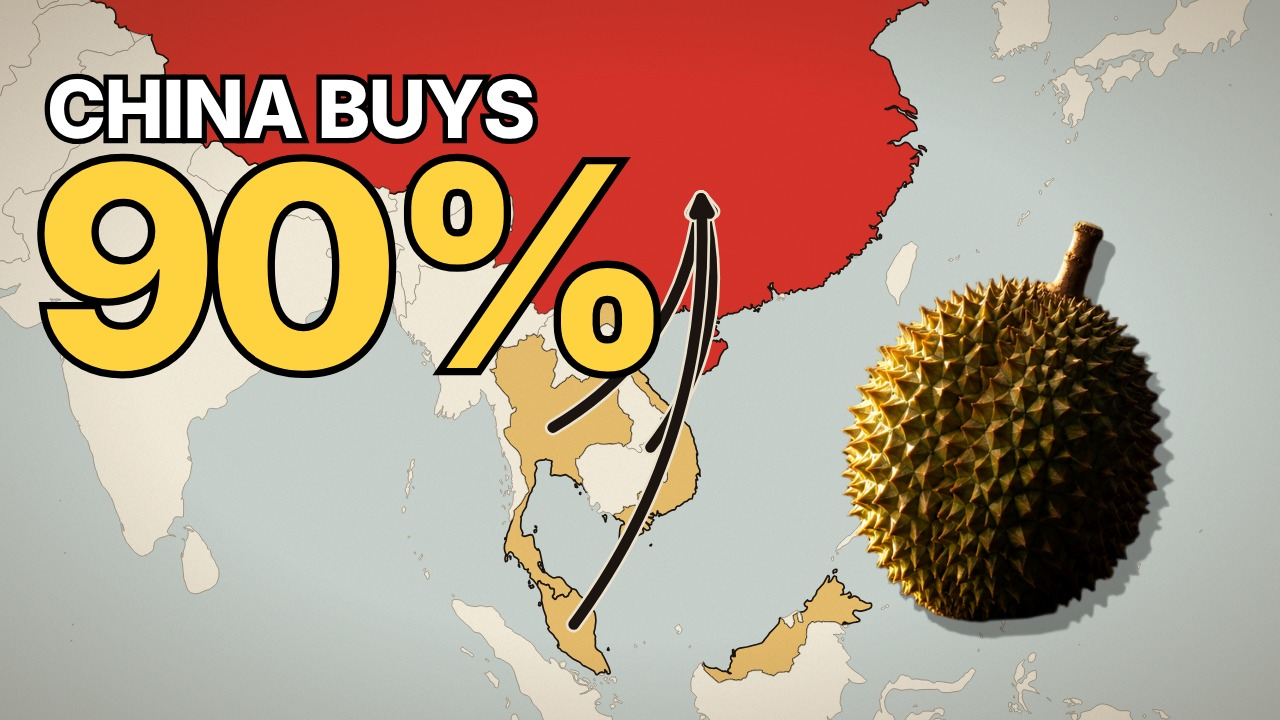
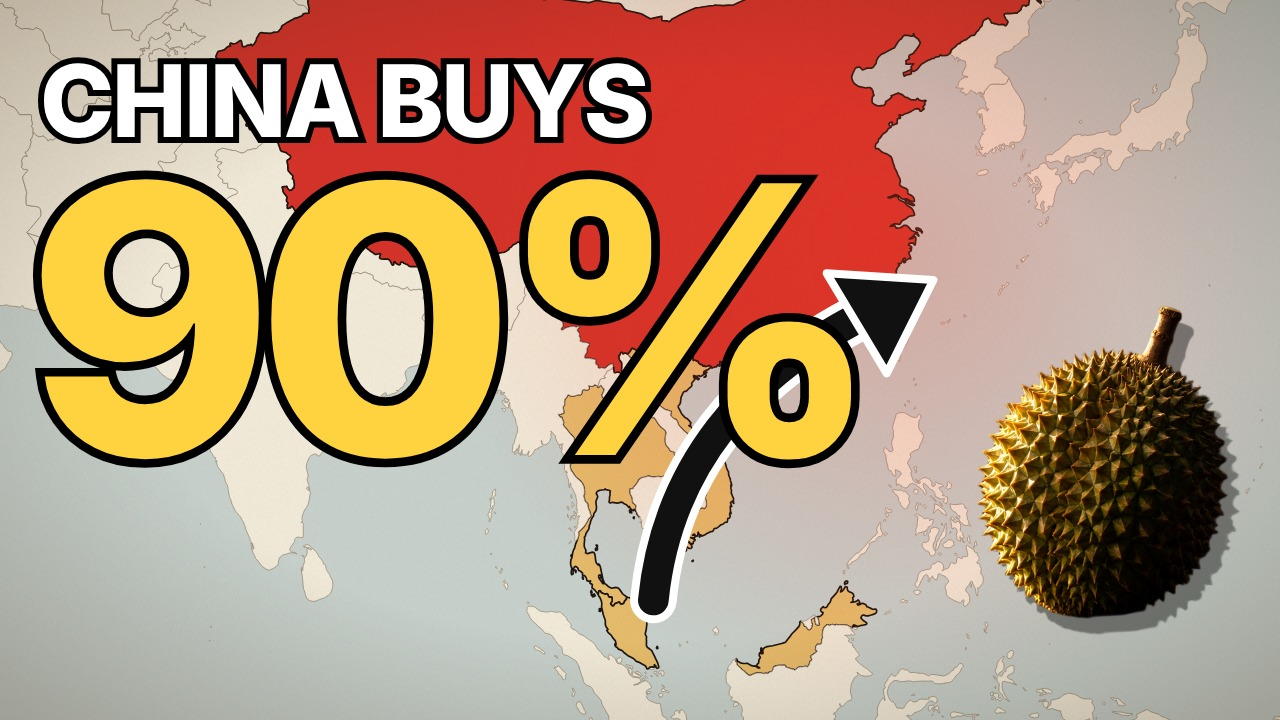
Thumbnails v2: simpler A, B with a human reaction
Claude-Session: https://claude.ai/code/session_01VhrmDmArrbH4FQoZgNijub

diff --git a/video-production/durian/src/Thumb.tsx b/video-production/durian/src/Thumb.tsx
@@ -6,32 +6,35 @@ import {C, MARKER, SANS} from './theme';
 // YouTube thumbnails (rendered as stills at 1920x1080, exported at 1280x720).
 const stroke = (w: number, col = '#000') => ({WebkitTextStroke: `${w}px ${col}`, paintOrder: 'stroke fill' as const});
 const MAP: MapSpec = {
-  from: {c: [106, 19], z: 1500},
-  highlight: {China: 'red', Thailand: 'gold', Vietnam: 'gold', Malaysia: 'gold'},
-  arrows: [
-    {from: [101.0, 15.3], to: [109.5, 27.5], delay: -200, width: 16},
-    {from: [106.6, 14.2], to: [109.5, 27.5], delay: -200, width: 16},
-    {from: [102.2, 4.2], to: [109.5, 27.5], delay: -200, bend: 0.18, width: 16},
-  ],
+  from: {c: [103, 22], z: 1250},
+  highlight: {China: 'red', Vietnam: 'gold', Thailand: 'gold', Malaysia: 'gold'},
 };
 
+// A: one idea only. China glowing red, one fat arrow from Southeast Asia, a huge 90%.
 const A: React.FC = () => (
   <AbsoluteFill>
     <MapScene spec={MAP} dur={60} />
-    <AbsoluteFill style={{background: 'linear-gradient(90deg, rgba(0,0,0,0.0) 40%, rgba(0,0,0,0.0) 100%)'}} />
-    <Img src={staticFile('thumb/durian-cut.png')} style={{position: 'absolute', left: 1060, top: 230, width: 720, filter: 'drop-shadow(18px 24px 0 rgba(0,0,0,0.35))'}} />
-    <div style={{position: 'absolute', left: 70, top: 90, fontFamily: SANS, fontWeight: 900, fontSize: 120, color: '#fff', letterSpacing: -3, ...stroke(16)}}>CHINA BUYS</div>
-    <div style={{position: 'absolute', left: 50, top: 190, fontFamily: SANS, fontWeight: 900, fontSize: 420, lineHeight: 1, color: '#FFD23F', letterSpacing: -18, ...stroke(22)}}>90%</div>
+    <AbsoluteFill style={{background: 'radial-gradient(circle at 70% 35%, rgba(255,60,40,0.25) 0%, rgba(0,0,0,0) 45%)'}} />
+    <svg width={1920} height={1080} style={{position: 'absolute'}}>
+      <path d="M 980 900 C 1000 700, 1120 560, 1300 470" fill="none" stroke="#fff" strokeWidth={70} strokeLinecap="round" />
+      <path d="M 980 900 C 1000 700, 1120 560, 1300 470" fill="none" stroke="#111" strokeWidth={46} strokeLinecap="round" />
+      <path d="M 1400 420 L 1240 410 L 1330 560 Z" fill="#111" stroke="#fff" strokeWidth={12} strokeLinejoin="round" />
+    </svg>
+    <Img src={staticFile('thumb/durian-cut.png')} style={{position: 'absolute', left: 1310, top: 380, width: 560, filter: 'drop-shadow(18px 24px 0 rgba(0,0,0,0.4))'}} />
+    <div style={{position: 'absolute', left: 60, top: 60, fontFamily: SANS, fontWeight: 900, fontSize: 150, color: '#fff', letterSpacing: -4, ...stroke(18)}}>CHINA BUYS</div>
+    <div style={{position: 'absolute', left: 40, top: 200, fontFamily: SANS, fontWeight: 900, fontSize: 560, lineHeight: 1, color: '#FFD23F', letterSpacing: -26, ...stroke(26)}}>90%</div>
   </AbsoluteFill>
 );
 
+// B: a real reaction. Excited buyer holding the open fruit, money line on the left.
 const B: React.FC = () => (
-  <AbsoluteFill style={{background: 'radial-gradient(circle at 62% 50%, #E8352B 0%, #A3150F 55%, #4A0705 100%)'}}>
-    <Img src={staticFile('thumb/durian-open-cut.png')} style={{position: 'absolute', left: 960, top: 200, width: 1000, filter: 'drop-shadow(0 30px 40px rgba(0,0,0,0.5))'}} />
-    <div style={{position: 'absolute', left: 70, top: 230}}>
-      <div style={{fontFamily: SANS, fontWeight: 900, fontSize: 110, color: '#fff', letterSpacing: -2, ...stroke(14)}}>CHINA SPENT</div>
-      <div style={{fontFamily: SANS, fontWeight: 900, fontSize: 380, lineHeight: 0.9, color: '#FFD23F', letterSpacing: -16, ...stroke(22)}}>$7.5B</div>
-      <div style={{fontFamily: SANS, fontWeight: 900, fontSize: 120, color: '#fff', letterSpacing: -3, marginTop: 20, ...stroke(14)}}>ON ONE FRUIT</div>
+  <AbsoluteFill style={{background: '#A3150F'}}>
+    <Img src={staticFile('thumb/b-woman-1.png')} style={{position: 'absolute', width: '100%', height: '100%', objectFit: 'cover', transform: 'translateX(230px) scale(1.04)', transformOrigin: '80% 50%'}} />
+    <AbsoluteFill style={{background: 'linear-gradient(90deg, rgba(90,8,5,0.55) 0%, rgba(90,8,5,0.2) 40%, rgba(0,0,0,0) 55%)'}} />
+    <div style={{position: 'absolute', left: 60, top: 170}}>
+      <div style={{fontFamily: SANS, fontWeight: 900, fontSize: 120, color: '#fff', letterSpacing: -3, ...stroke(16)}}>CHINA SPENT</div>
+      <div style={{fontFamily: SANS, fontWeight: 900, fontSize: 400, lineHeight: 0.9, color: '#FFD23F', letterSpacing: -18, ...stroke(24)}}>$7.5B</div>
+      <div style={{fontFamily: SANS, fontWeight: 900, fontSize: 130, color: '#fff', letterSpacing: -3, marginTop: 24, ...stroke(16)}}>ON ONE FRUIT</div>
     </div>
   </AbsoluteFill>
 );
